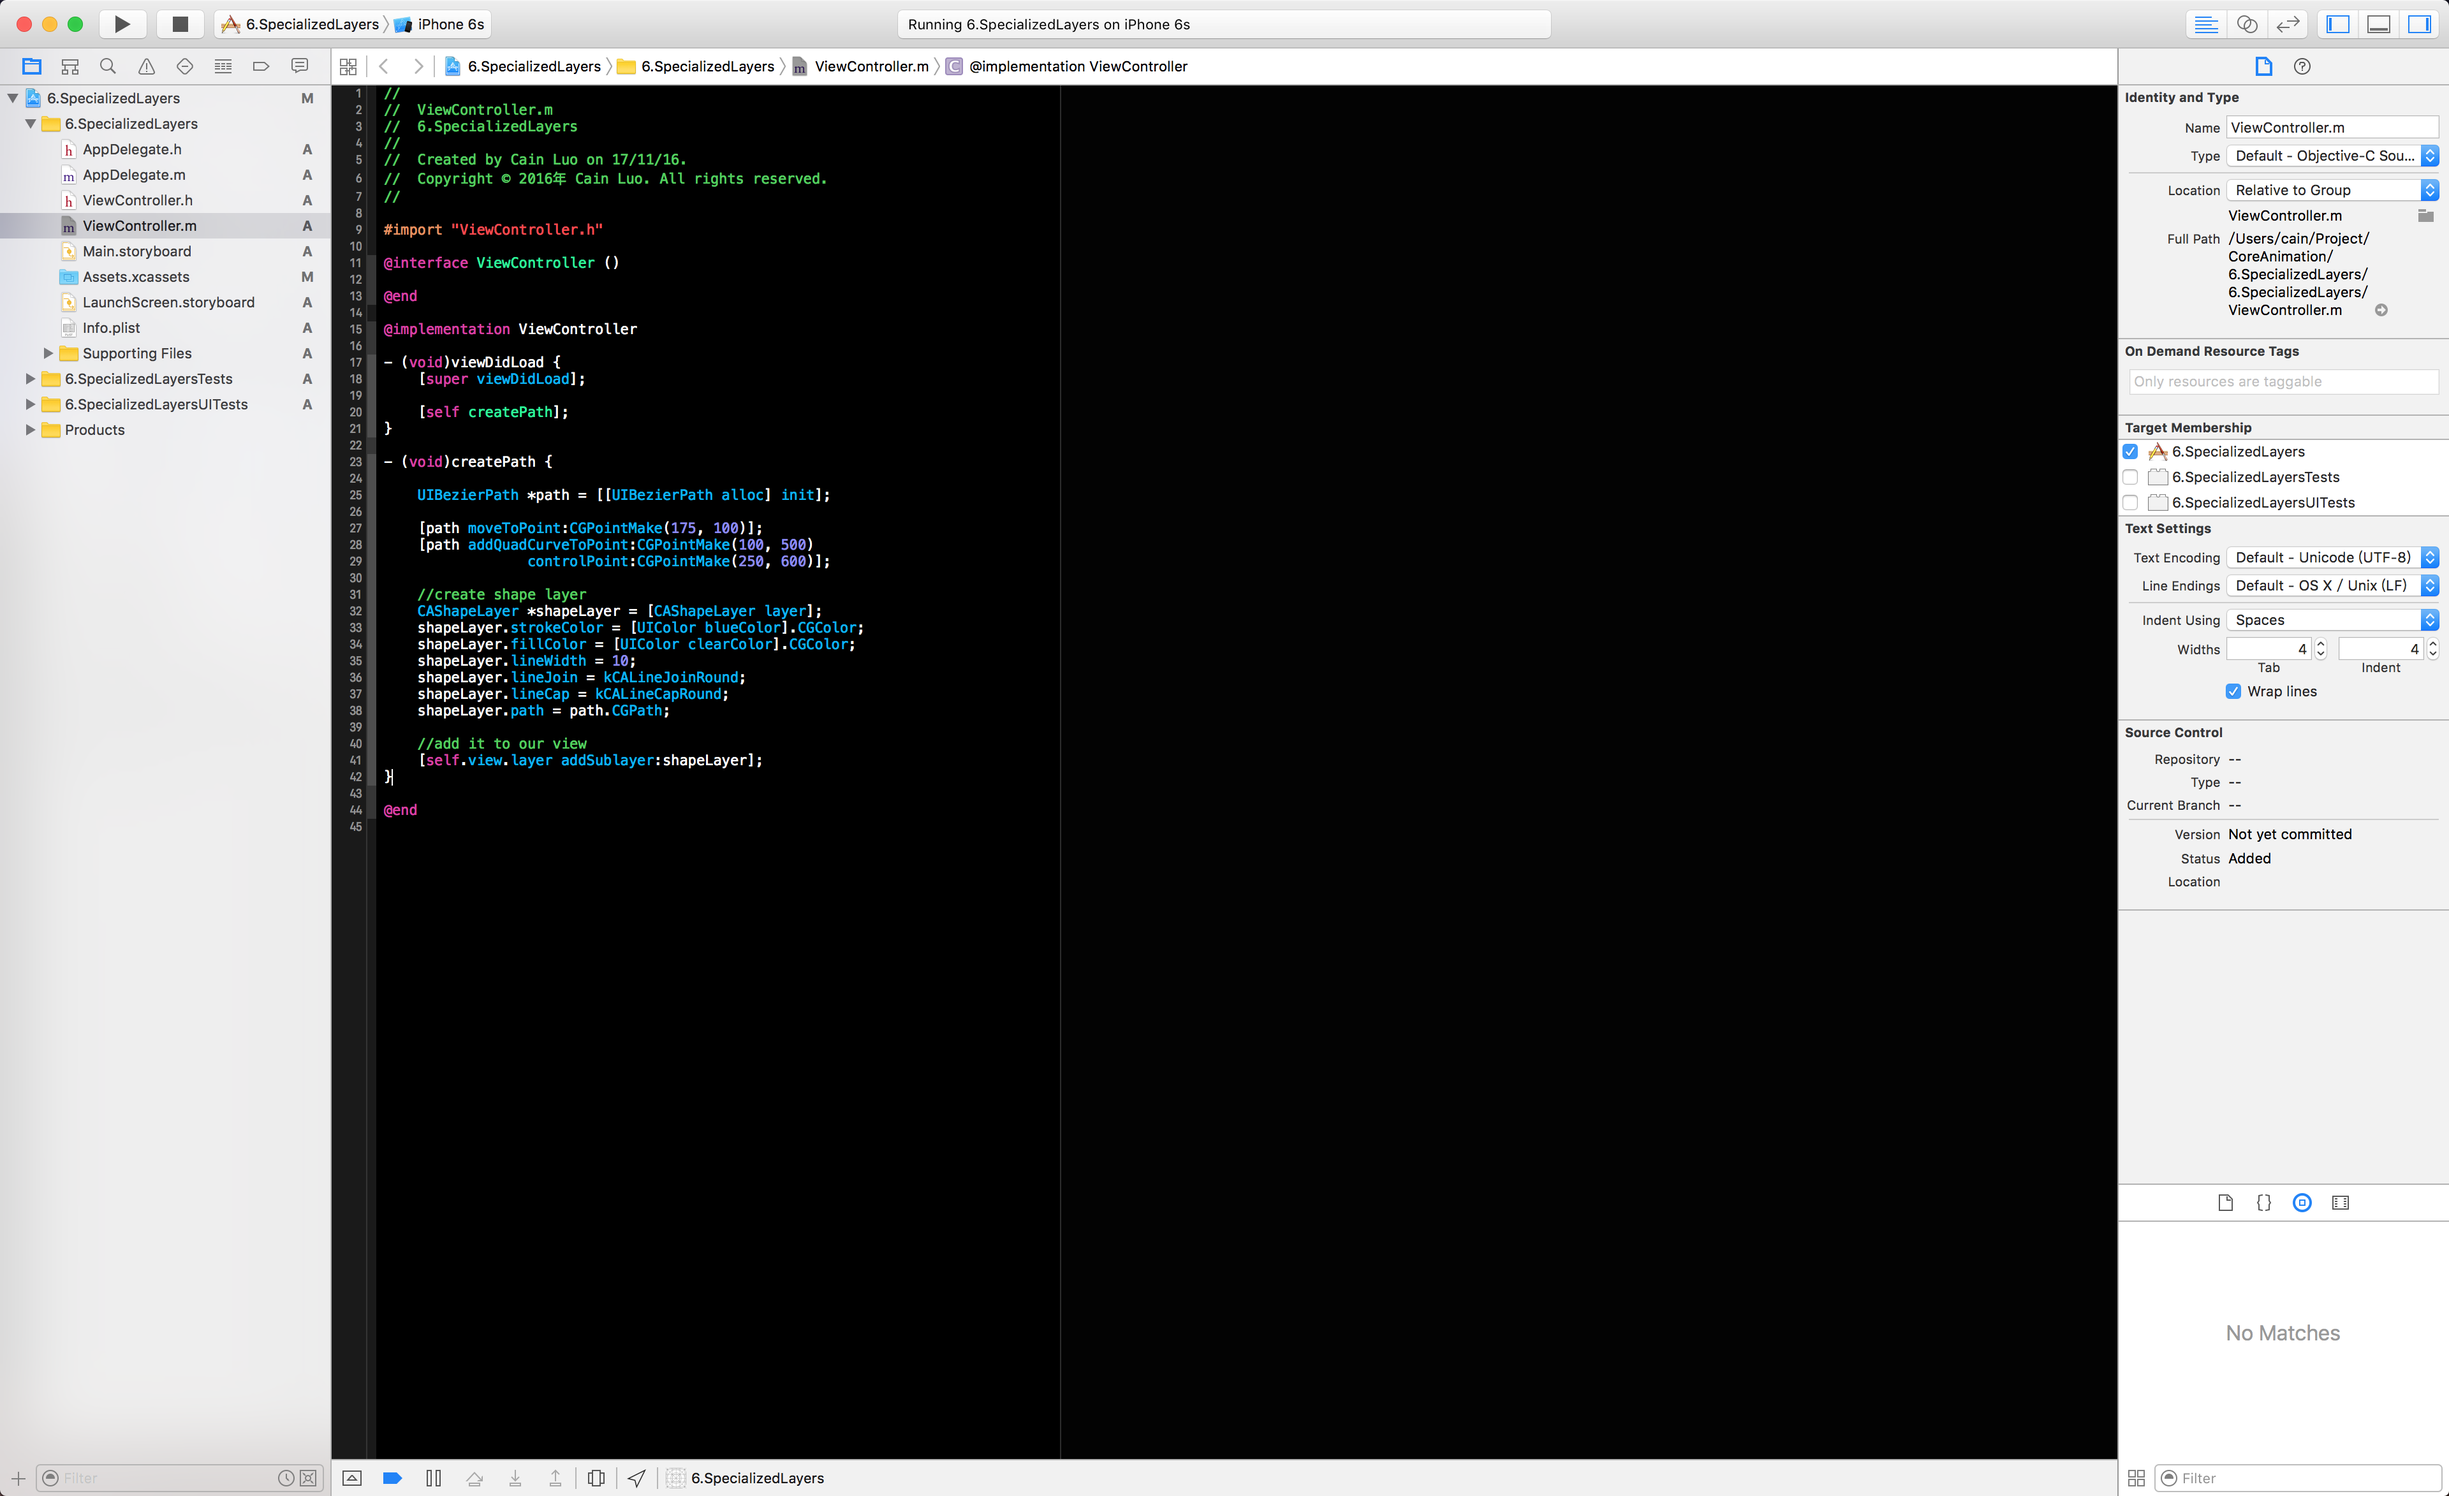
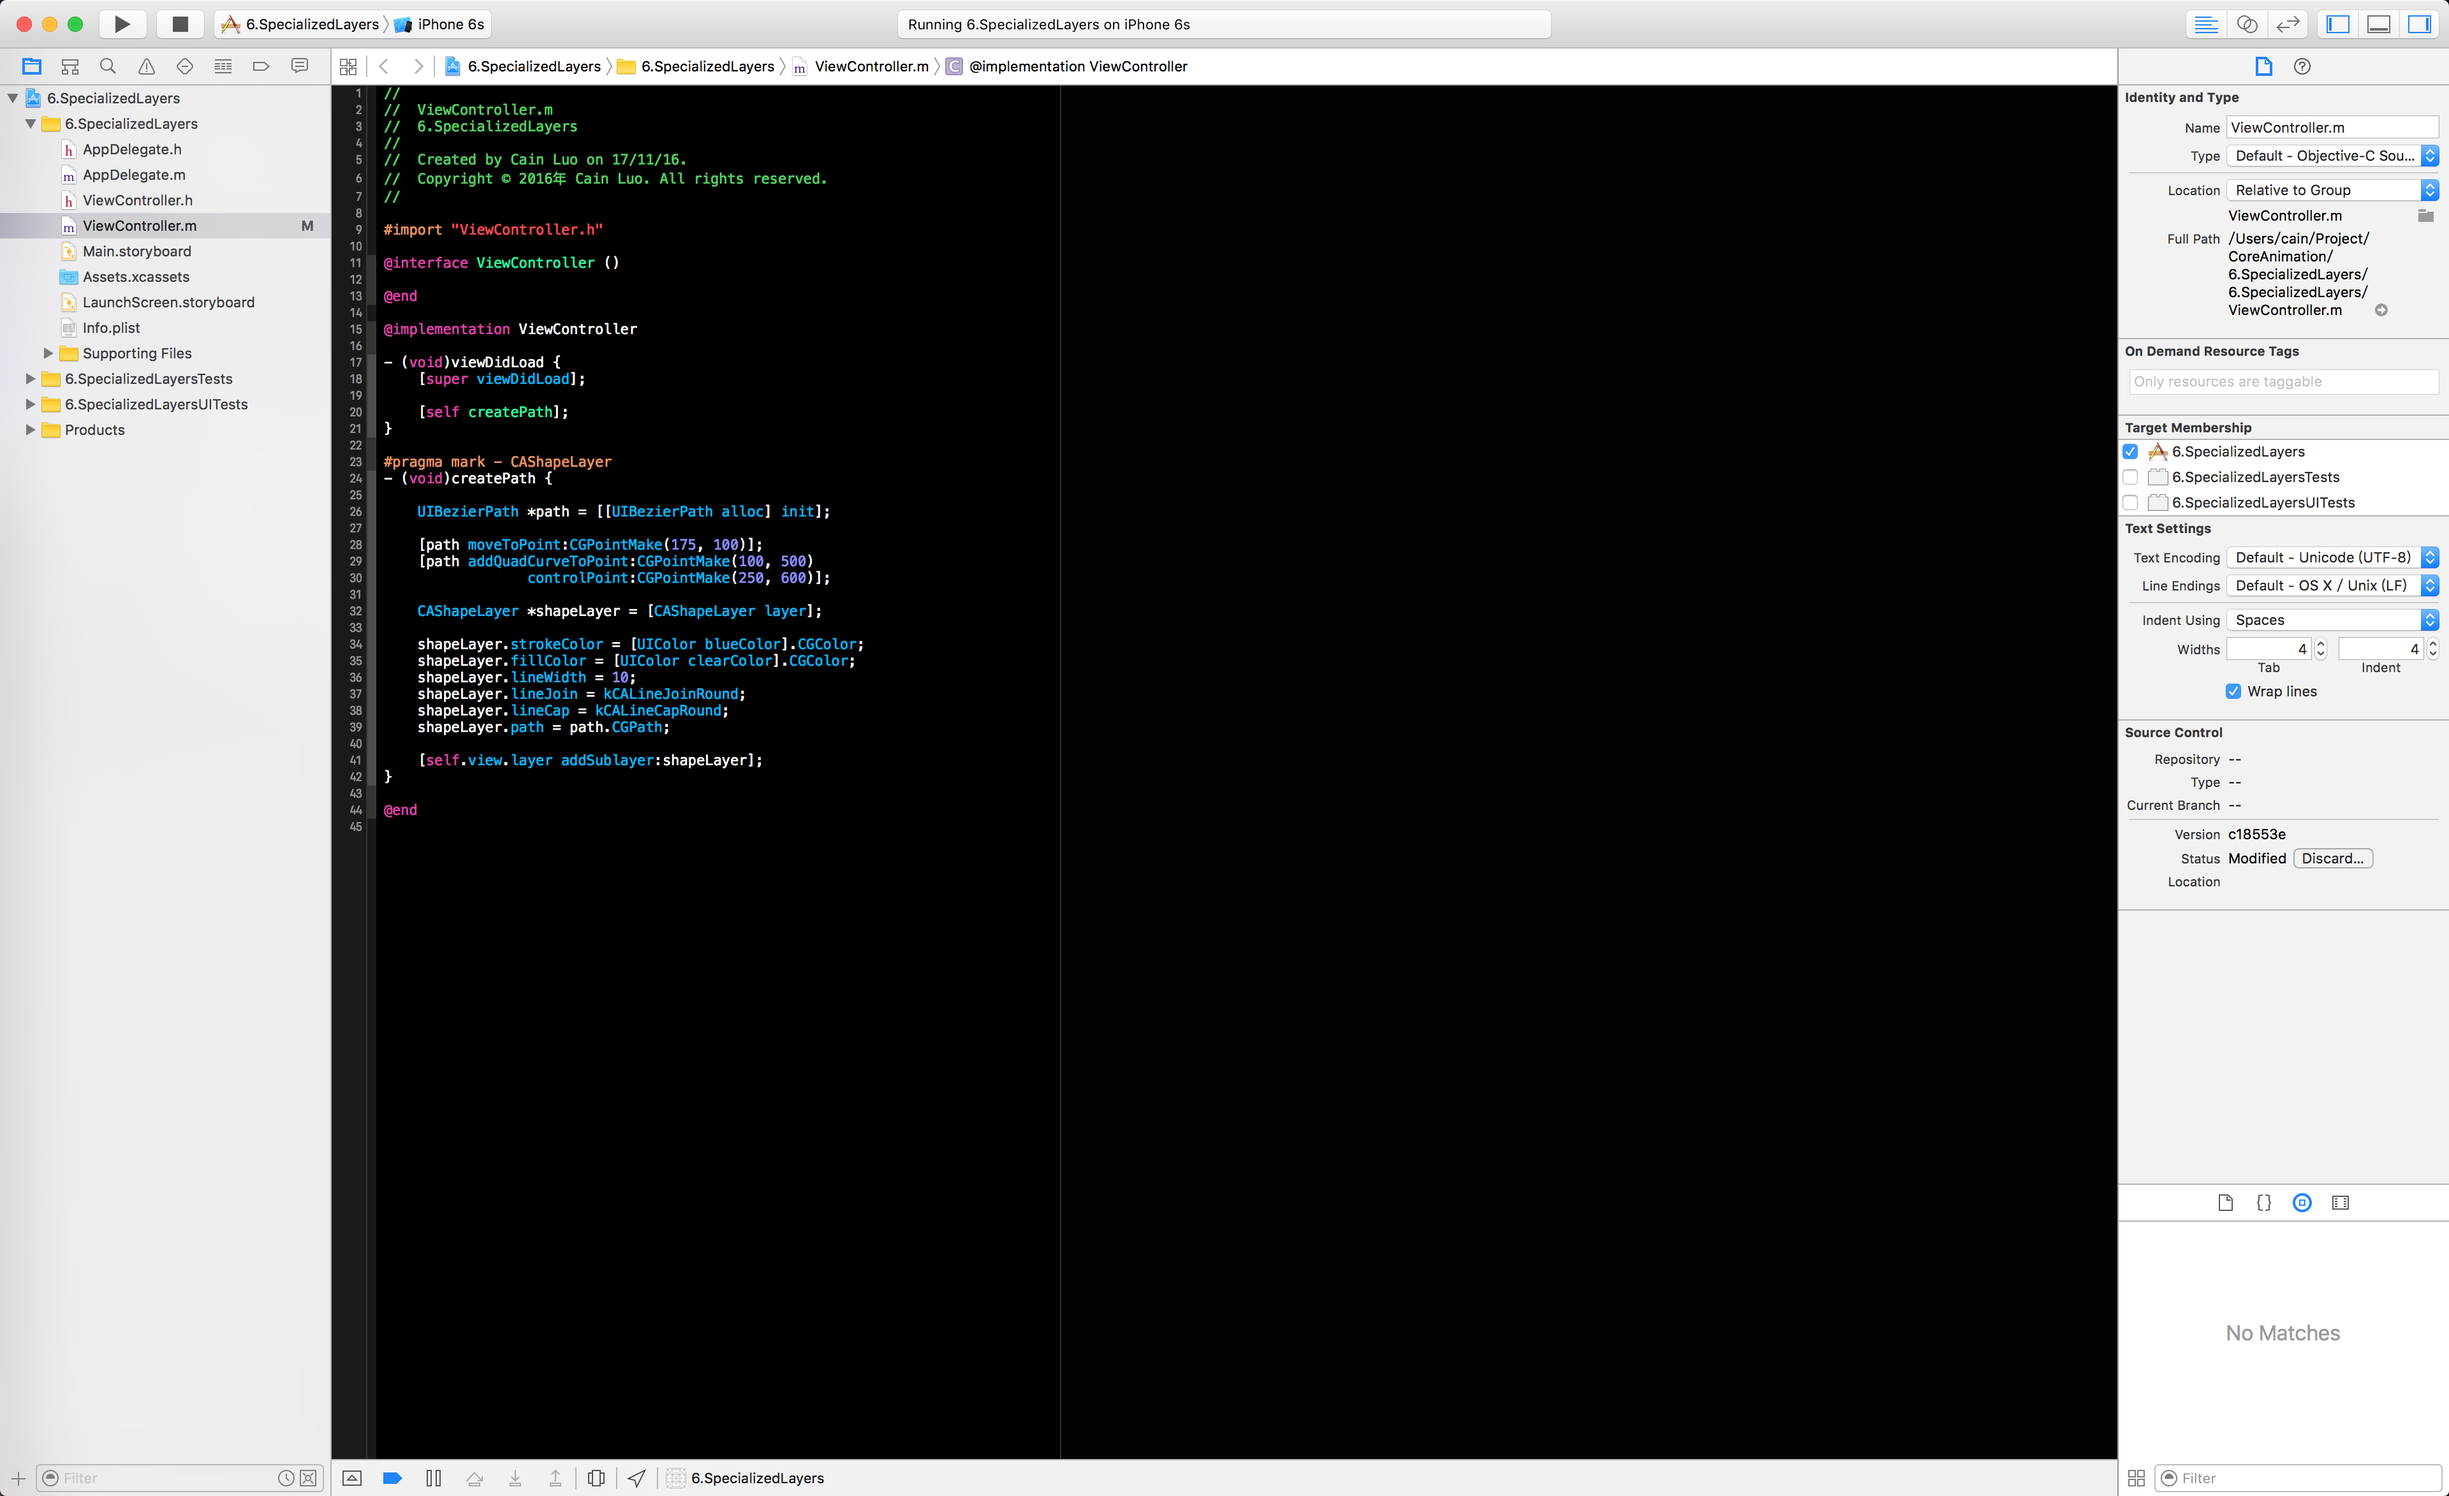
添加图片
添加图片

Changed region(s): [[0.1562, 0.2801, 0.3438, 0.4979], [0.9062, 0.529, 0.9688, 0.5912]]

diff --git a/6.SpecializedLayers/6.SpecializedLayers/ViewController.m b/6.SpecializedLayers/6.SpecializedLayers/ViewController.m
@@ -17,9 +17,11 @@
 - (void)viewDidLoad {
     [super viewDidLoad];
     
-    [self createPath];
+//    [self createPath];
+    [self viewRoundedCorners];
 }
 
+#pragma mark - CAShapeLayer
 - (void)createPath {
     
     UIBezierPath *path = [[UIBezierPath alloc] init];
@@ -28,8 +30,8 @@
     [path addQuadCurveToPoint:CGPointMake(100, 500)
                  controlPoint:CGPointMake(250, 600)];
     
-    //create shape layer
     CAShapeLayer *shapeLayer = [CAShapeLayer layer];
+    
     shapeLayer.strokeColor = [UIColor blueColor].CGColor;
     shapeLayer.fillColor = [UIColor clearColor].CGColor;
     shapeLayer.lineWidth = 10;
@@ -37,7 +39,24 @@
     shapeLayer.lineCap = kCALineCapRound;
     shapeLayer.path = path.CGPath;
     
-    //add it to our view
+    [self.view.layer addSublayer:shapeLayer];
+}
+
+- (void)viewRoundedCorners {
+    
+    CGRect rect = CGRectMake(130, 130, 100, 100);
+    CGSize radii = CGSizeMake(10, 10);
+    
+    UIRectCorner corners = UIRectCornerTopRight | UIRectCornerBottomRight | UIRectCornerBottomLeft | UIRectCornerTopLeft;
+    
+    UIBezierPath *path = [UIBezierPath bezierPathWithRoundedRect:rect
+                                               byRoundingCorners:corners
+                                                     cornerRadii:radii];
+    
+    CAShapeLayer *shapeLayer = [CAShapeLayer layer];
+    
+    shapeLayer.path = path.CGPath;
+    
     [self.view.layer addSublayer:shapeLayer];
 }
 
